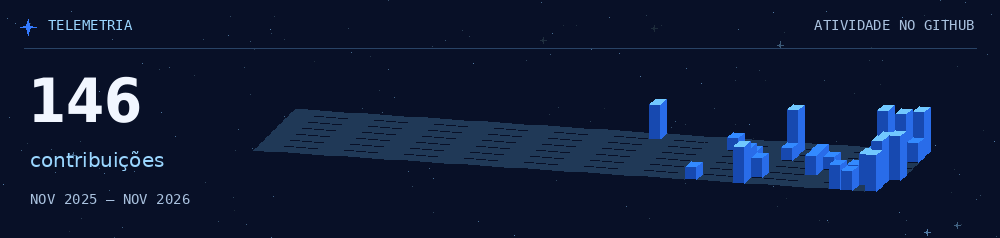
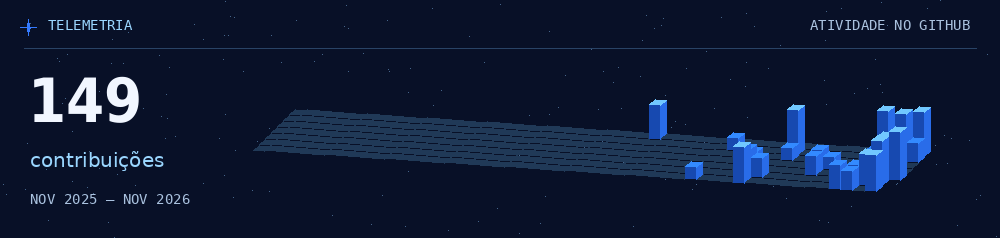
Atualiza o calendário orbital diariamente com GitHub Actions

diff --git a/scripts/telemetria.py b/scripts/telemetria.py
@@ -1,0 +1,89 @@
+"""Renderiza o calendário de contribuições retornado pela API GraphQL do GitHub."""
+import json
+import math
+import random
+import sys
+from datetime import date
+from pathlib import Path
+
+from PIL import Image, ImageDraw, ImageFont
+
+OUTPUT = Path(__file__).resolve().parents[1] / "assets" / "atlas"
+MONTHS = "JAN FEV MAR ABR MAI JUN JUL AGO SET OUT NOV DEZ".split()
+FONT_DIR = Path("/usr/share/fonts/truetype/dejavu")
+
+
+def label(draw, xy, text, size, color, family="DejaVuSansMono"):
+    font = ImageFont.truetype(str(FONT_DIR / f"{family}.ttf"), size)
+    draw.text(xy, text, font=font, fill=color, anchor="lt")
+
+
+def star(draw, x, y, r, color):
+    draw.polygon([(x, y-r), (x+1, y-1), (x+r, y), (x+1, y+1),
+                  (x, y+r), (x-1, y+1), (x-r, y), (x-1, y-1)], fill=color)
+
+
+def month_label(day):
+    return f"{MONTHS[day.month - 1]} {day.year}"
+
+
+def render(calendar):
+    weeks = calendar["weeks"]
+    days = [day for week in weeks for day in week["contributionDays"]]
+    total = calendar["totalContributions"]
+    if not days or sum(day["contributionCount"] for day in days) != total:
+        raise ValueError("Calendário incompleto ou incompatível com o total da API")
+
+    first = date.fromisoformat(days[0]["date"])
+    last = date.fromisoformat(days[-1]["date"])
+    image = Image.new("RGB", (1000, 238), "#081027")
+    draw = ImageDraw.Draw(image)
+    rng = random.Random(42)
+    for _ in range(183):
+        draw.point((rng.randrange(1000), rng.randrange(238)), fill="#456489")
+    star(draw, 28, 27, 8, "#347aff")
+    label(draw, (48, 20), "TELEMETRIA", 14, "#9ad6ff")
+    label(draw, (810, 20), "ATIVIDADE NO GITHUB", 14, "#aac2df")
+    draw.line((24, 48, 976, 48), fill="#294366")
+    label(draw, (28, 76), str(total), 61, "#f1f6ff", "DejaVuSansCondensed-Bold")
+    label(draw, (30, 151), "contribuições", 20, "#9ad6ff", "DejaVuSans")
+    label(draw, (30, 194), f"{month_label(first)} — {month_label(last)}", 14, "#aac2df")
+
+    for week_index, week in enumerate(weeks):
+        for day in week["contributionDays"]:
+            weekday = day["weekday"]  # A API usa domingo como dia zero.
+            x = 295 + 12 * week_index - 6 * weekday
+            y = 109 + 0.8 * week_index + 6 * weekday
+            count = day["contributionCount"]
+            top = y - min(82, round(math.log2(1 + count) * 12))
+            color = "#203957"
+            if count:
+                color = "#71c8ff" if count > 4 else "#338aff"
+                draw.polygon([(x-6, top+5), (x+5, top+6), (x+5, y+6), (x-6, y+5)], fill="#1749b0")
+                draw.polygon([(x+5, top+6), (x+11, top+1), (x+11, y+1), (x+5, y+6)], fill="#296ce9")
+            draw.polygon([(x, top), (x+11, top+1), (x+5, top+6), (x-6, top+5)], fill=color)
+
+    frames = []
+    for index in range(54):
+        frame = image.copy()
+        draw = ImageDraw.Draw(frame)
+        x = 268 + index * 13
+        for offset in range(20):
+            tail = x - offset * 2
+            if 269 < tail < 944:
+                draw.point((tail, 74 + 12 * math.sin(tail / 124)),
+                           fill=(112 - offset * 4, 205 - offset * 6, 255 - offset * 6))
+        if 269 < x < 944:
+            star(draw, x, 74 + 12 * math.sin(x / 124), 3, "#f1f6ff")
+        frames.append(frame)
+    image.save(OUTPUT / "telemetria.png", optimize=True)
+    frames[0].save(OUTPUT / "telemetria.gif", save_all=True, append_images=frames[1:],
+                   duration=105, loop=0, optimize=True)
+    print(f"{total} contribuições até {last.isoformat()}")
+
+
+if __name__ == "__main__":
+    response = json.load(sys.stdin)
+    if response.get("errors"):
+        raise ValueError("A consulta GraphQL retornou erros")
+    render(response["data"]["user"]["contributionsCollection"]["contributionCalendar"])

diff --git a/README.md b/README.md
@@ -48,10 +48,10 @@ Estudo **Análise e Desenvolvimento de Sistemas**. Gosto tanto de investigar o q
 
 <picture>
   <source media="(prefers-reduced-motion: reduce)" srcset="assets/atlas/telemetria.png">
-  <img width="100%" src="assets/atlas/telemetria.gif" alt="Calendário tridimensional com 146 contribuições no período consultado em 19 de novembro de 2026. Cada coluna representa um dia.">
+  <img width="100%" src="assets/atlas/telemetria.gif" alt="Calendário tridimensional de contribuições dos últimos doze meses, atualizado diariamente. Cada coluna representa um dia.">
 </picture>
 
-Quanto mais alta a coluna, mais contribuições naquele dia. Registro de **19 de novembro de 2026**. [Ver atividade atual no GitHub ↗](https://github.com/Gabriel-S-Justino?tab=overview#js-contribution-activity)
+Quanto mais alta a coluna, mais contribuições naquele dia. O contador e as colunas são atualizados diariamente a partir do calendário do GitHub. [Ver atividade atual no GitHub ↗](https://github.com/Gabriel-S-Justino?tab=overview#js-contribution-activity)
 
 ![Contato com Gabriel S. Justino](assets/atlas/contato.png)
 
